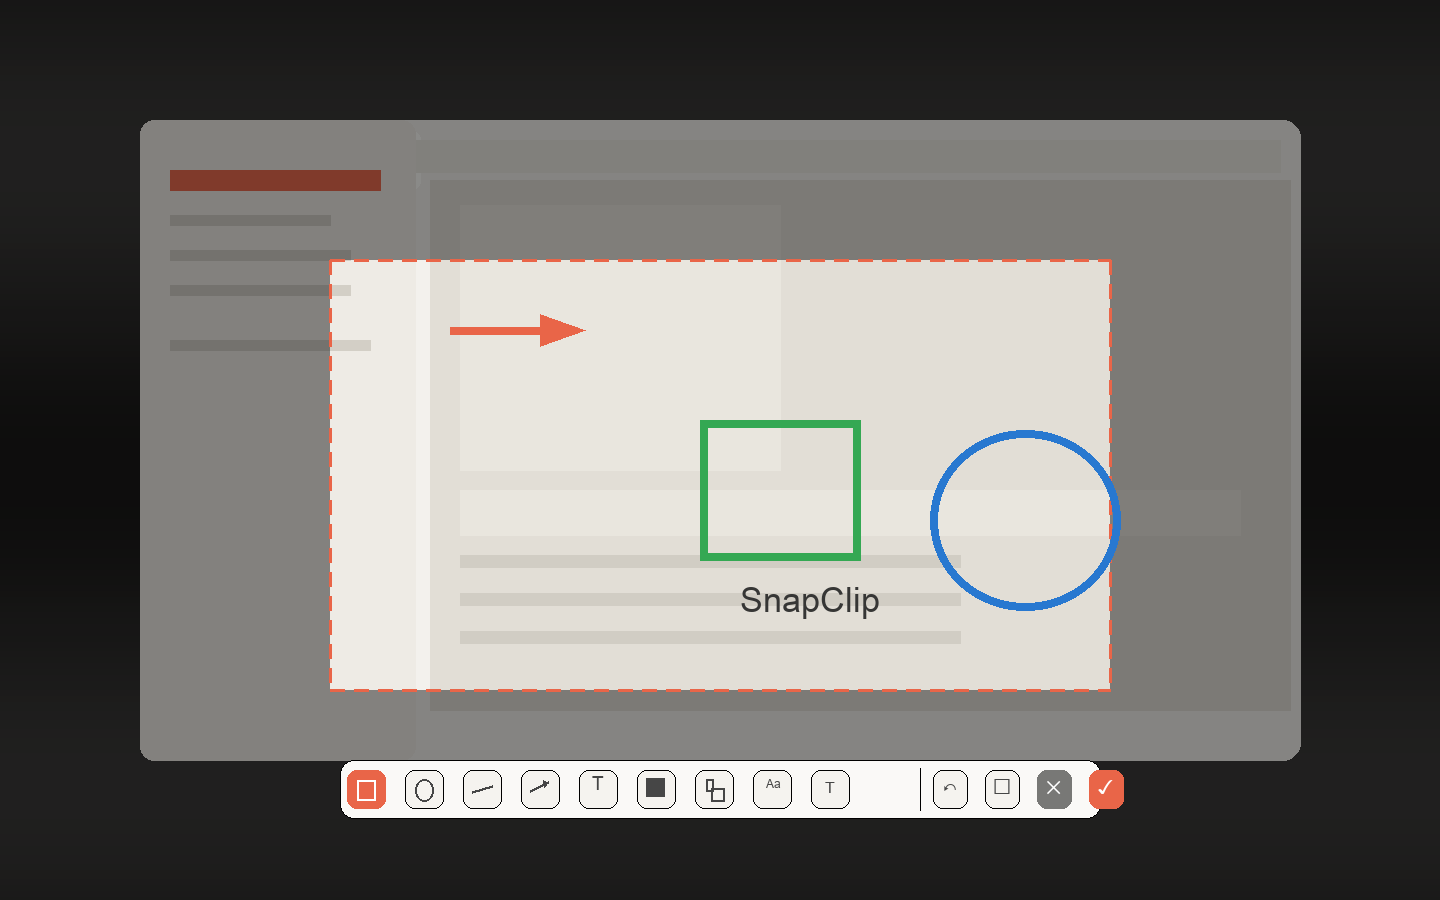
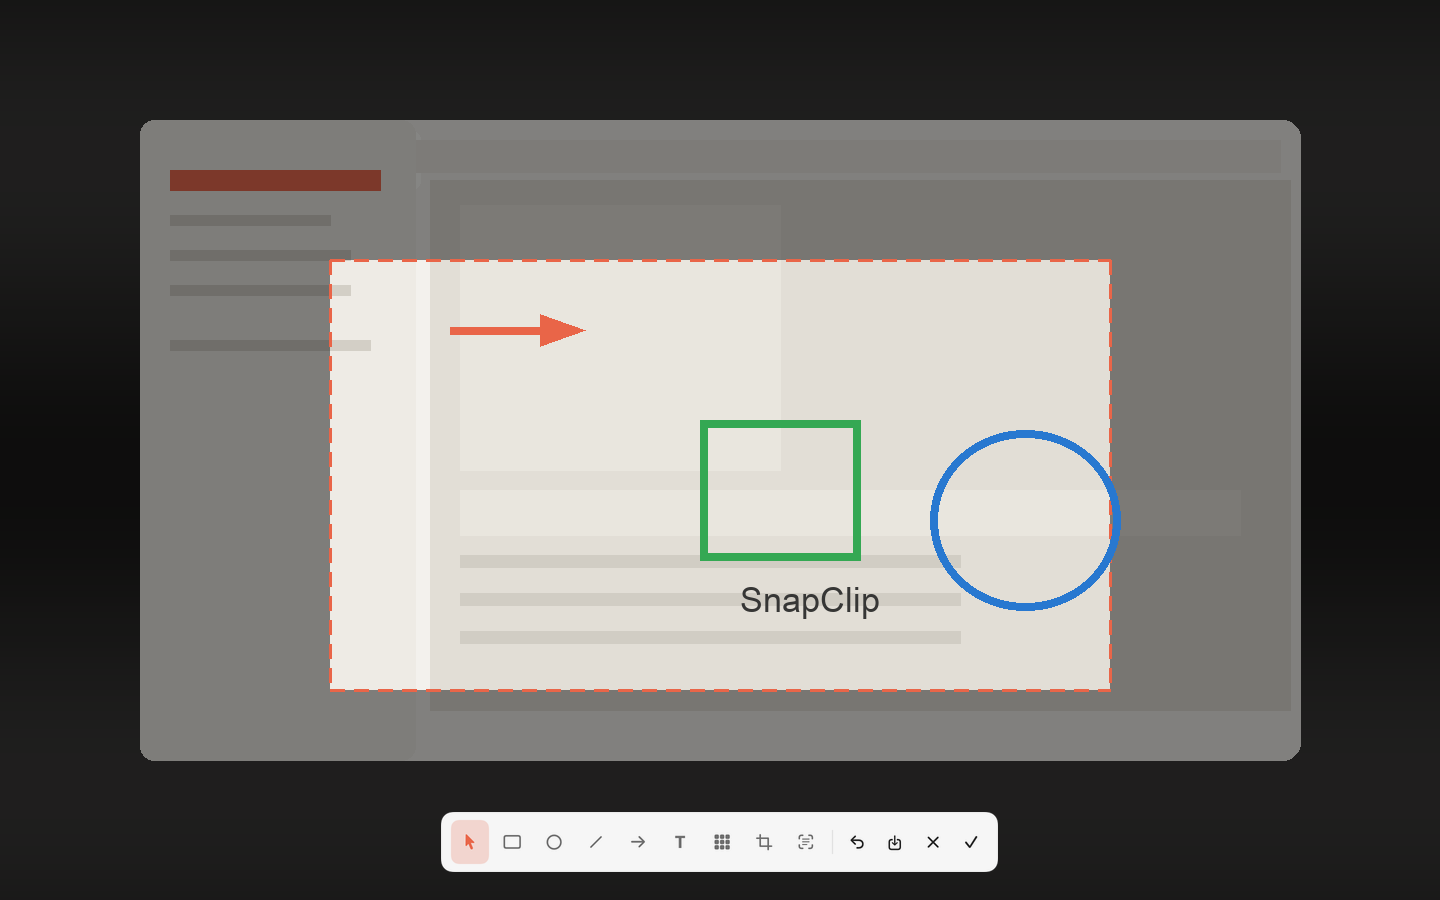
Restore README demo GIF with real toolbar rendering

Changed region(s): [[0.2188, 0.84, 0.7812, 0.9956]]

diff --git a/README.md b/README.md
@@ -15,6 +15,12 @@
   <img src="docs/assets/menu-ui-light.png" width="376" alt="SnapClip 菜单栏工作台真实界面">
 </p>
 
+<p align="center">
+  <img src="docs/assets/showcase-demo.gif" width="700" alt="SnapClip 框选到原地编辑的流程动图">
+  <br>
+  <sub>流程动图：选区 → 原地编辑（编辑器工具栏为真实 UI 渲染）</sub>
+</p>
+
 SnapClip 是一款面向 **Apple Silicon、macOS 14+** 的原生菜单栏截图工具。按熟悉的 `⇧⌘4` / `⇧⌘3`，屏幕会先冻结、变暗，框选或选中窗口后不会弹到独立编辑窗口，而是直接停留在你刚才框出的屏幕位置编辑。
 
 确认后截图才写入剪贴板，并在应用运行期间保留最近三张。没有账号、没有云端、没有分析统计，OCR 与实况文本也全部在本机完成；退出应用，历史立即清空。
